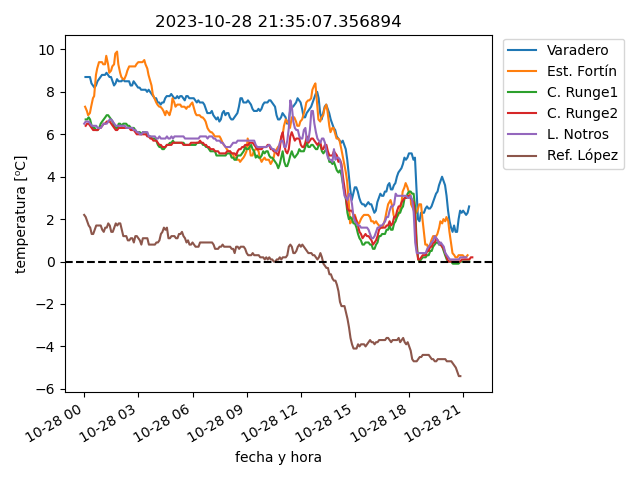
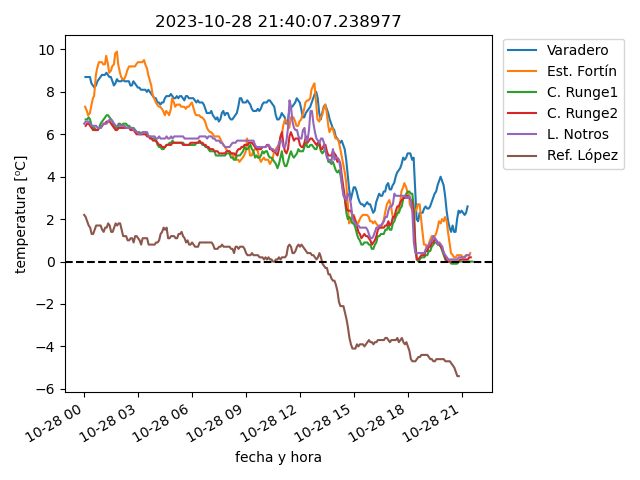
actualiza datos

diff --git a/estaciones/estacion2.html b/estaciones/estacion2.html
@@ -13,27 +13,27 @@
     </tr>
     <tr>
      <td class="stats_data">
-      2023-10-28 21:14:04
+      2023-10-28 21:28:06
      </td>
     </tr>
     <tr>
      <td class="stats_data">
-      TEMPERATURA / -0.7⁰C
+      TEMPERATURA / -0.8⁰C
      </td>
     </tr>
     <tr>
      <td class="stats_data">
-      93.0%
+      91.5%
      </td>
     </tr>
     <tr>
      <td class="stats_data">
-      995.94hPa
+      995.6hPa
      </td>
     </tr>
     <tr>
      <td class="stats_data">
-      17.6/30.6 km/hr W
+      14.6/32.2 km/hr W
      </td>
     </tr>
     <tr>

diff --git a/estaciones/estacion5.html b/estaciones/estacion5.html
@@ -13,22 +13,22 @@
     </tr>
     <tr>
      <td class="stats_data">
-      2023-10-28 21:10:00
+      2023-10-28 21:25:00
      </td>
     </tr>
     <tr>
      <td class="stats_data">
-      TEMPERATURA / -0.9⁰C
+      TEMPERATURA / -0.7⁰C
      </td>
     </tr>
     <tr>
      <td class="stats_data">
-      92.0%
+      93.0%
      </td>
     </tr>
     <tr>
      <td class="stats_data">
-      998.95hPa
+      999.32hPa
      </td>
     </tr>
     <tr>

diff --git a/estaciones/estacion3.html b/estaciones/estacion3.html
@@ -13,7 +13,7 @@
     </tr>
     <tr>
      <td class="stats_data">
-      2023-10-28 21:19:31
+      2023-10-28 21:34:59
      </td>
     </tr>
     <tr>
@@ -28,12 +28,12 @@
     </tr>
     <tr>
      <td class="stats_data">
-      986.73hPa
+      986.83hPa
      </td>
     </tr>
     <tr>
      <td class="stats_data">
-      10.8/15.8 km/hr WNW
+      11.3/16.1 km/hr NW
      </td>
     </tr>
     <tr>
